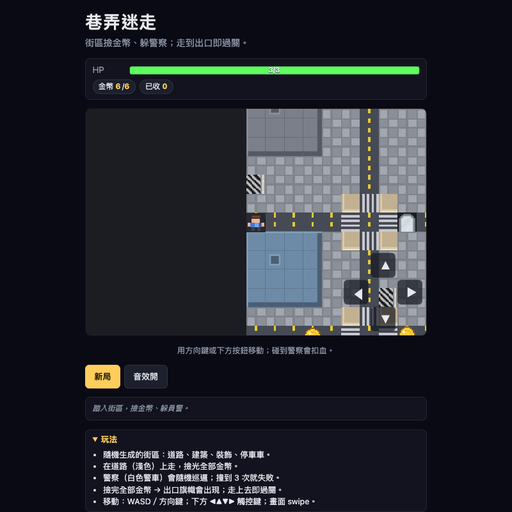
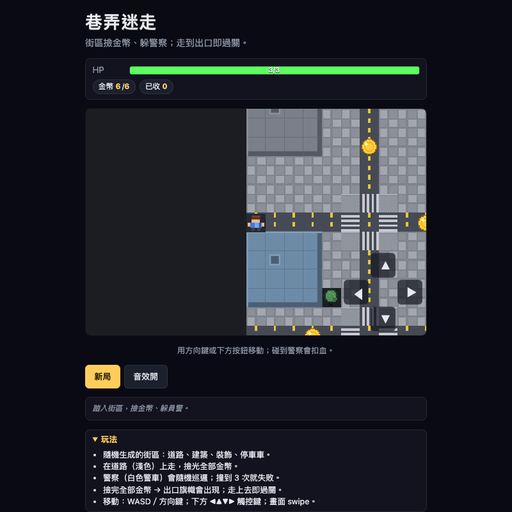
feat: self-draw all tiles for consistent pixel art
Redraw tree, red/blue cars, and curb in the same top-down pixel style as
the player, police car, roads, and goal. Remove the last Kenney tile
assets and their license file; all art is now MIT (developed in-repo)
while audio remains CC0. Update attribution, README, and thumbnail.

diff --git a/ATTRIBUTION.md b/ATTRIBUTION.md
@@ -1,17 +1,17 @@
 # Attribution
 
-`pg-cityroam` 全部素材皆為 CC0，依本 repo 慣例仍逐一署名。
+`pg-cityroam` 的**美術**為本專案自繪，授權同專案（MIT）；音效／音樂為 CC0 素材，依本 repo 慣例逐一署名。
 
 ## 美術
 
 | 來源 | 作者 | 授權 |
 | --- | --- | --- |
-| `assets/tiles/tree.png`(0685)、`car_red.png`(0693)、`car_blue.png`(0694) | Kenney (www.kenney.nl) | CC0 1.0 |
-| `assets/tiles/road_plain.png`、`road_main.png`、`crosswalk_v.png`、`crosswalk_h.png`、`sidewalk.png`、`curb.png`、`player.png`（小人）、`police.png`（警車）、`coin.png`（圓形金幣）、`goal.png`（棋盤出口旗） | 本專案自繪（程序產生） | 同專案 MIT |
+| `assets/tiles/*.png`（道路、行人、警車、汽車、樹木、建築屋頂、金幣、出口旗） | 本專案自繪（程序產生） | 同專案 MIT |
 
-來源：https://kenney.nl/assets/roguelike-modern-city
+早期曾參考 Kenney Roguelike Modern City 素材（https://kenney.nl/assets/roguelike-modern-city），
+但最終貼圖已全數以本專案像素風格重繪，不留任何外部圖片素材。
 
-城市建築物屋頂為 `app.js` 程序化繪製（`drawBuildingTile`），非取自素材庫。
+城市建築物屋頂為 `app.js` 程序化繪製（`drawBuildingTile`）。
 
 ## 音樂
 
@@ -38,4 +38,4 @@
 
 ---
 
-授權全文見 `assets/tiles/License.txt` 與原始素材頁面。
+| 授權全文見各原始素材頁面。

diff --git a/README.md b/README.md
@@ -45,7 +45,7 @@ audio.js            # Web Audio 載入 + BGM loop
 game.test.js        # vitest 單元測試
 functions.js        # Playgrounds Worker functions hook（預留）
 assets/
-  tiles/*.png       # Kenney Roguelike Modern City（CC0）+ 自繪（小人、警車、道路、旗、金幣）
+  tiles/*.png       # 全部自繪（程序產生）像素風格：道路、行人、警車、汽車、樹、旗、金幣
   tiles/License.txt
   sfx/*.ogg         # Kenney RPG Audio + HydroGene Lively City BGM（CC0）
 ```
@@ -58,6 +58,5 @@ npx vitest run
 
 ## 授權
 
-MIT（程式碼）。
-
-遊戲素材全部 CC0，署名見 [ATTRIBUTION.md](./ATTRIBUTION.md)。
+MIT（程式碼與美術）。
+音效／音樂為 CC0，署名見 [ATTRIBUTION.md](./ATTRIBUTION.md)。
